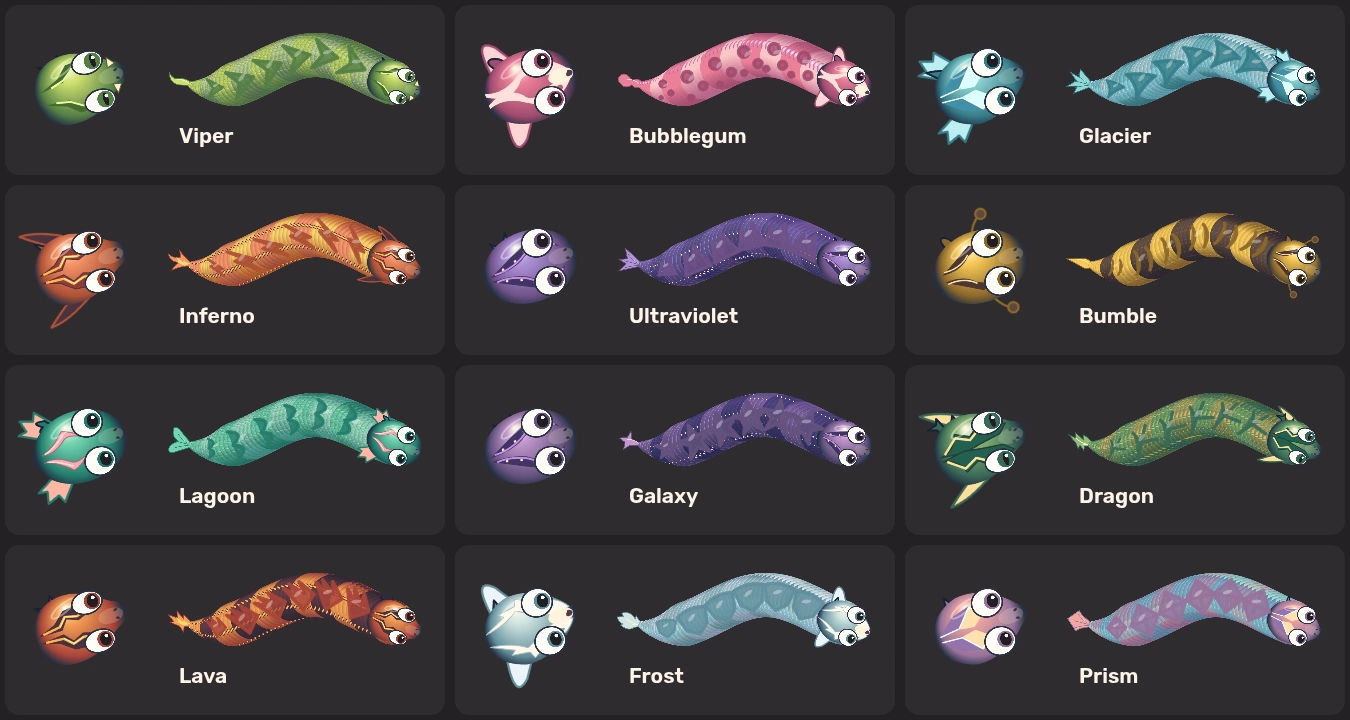
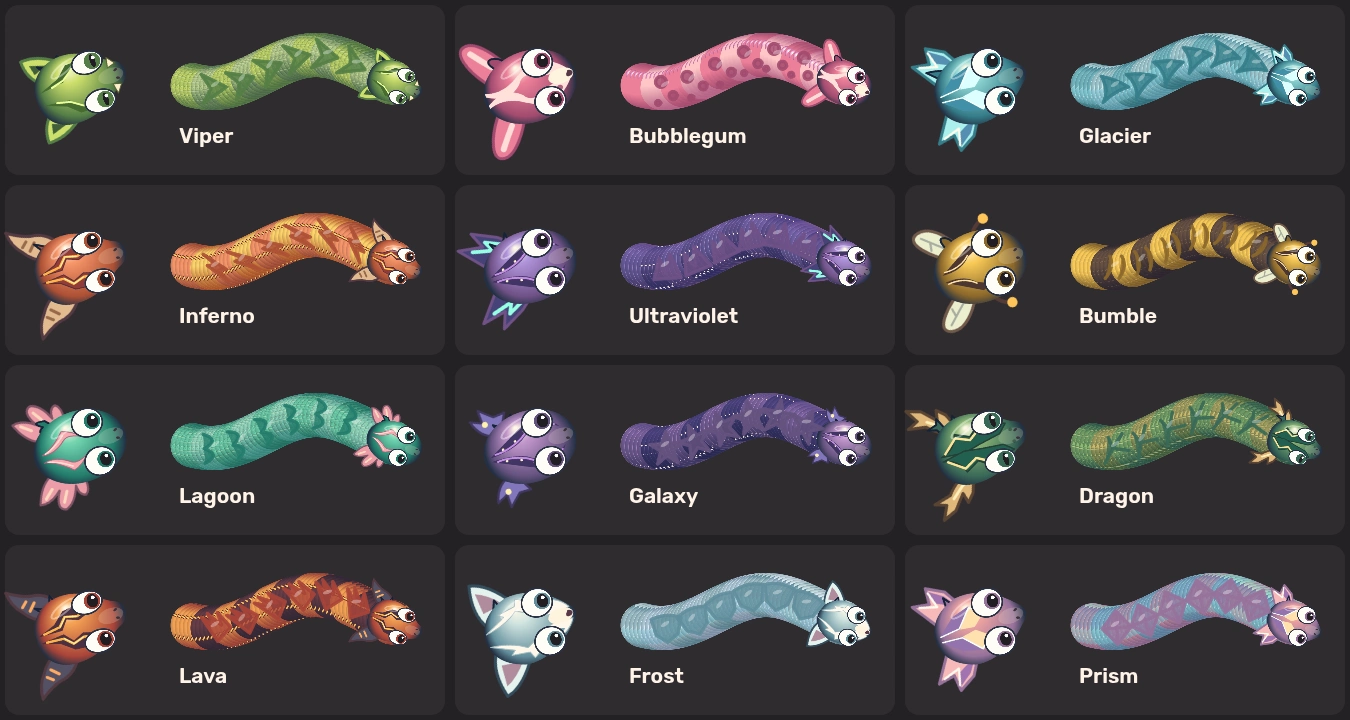
Give snakes rounded tails and distinct character silhouettes

diff --git a/src/render/skinArt.ts b/src/render/skinArt.ts
@@ -240,39 +240,135 @@ export function facePaint(c: Brush, id: string) {
   c.restore();
 }
 
-// Tail fins occupy the taper, behind the last segment. The point at (147,96)
-// joins the body; the rest of the silhouette points away from the head.
-export function tailPaint(c: Brush, id: string, light: string, dark: string) {
-  const silhouettes: Record<string, string> = {
-    fang: "M156 95 Q112 66 74 82 Q40 94 17 63 Q32 114 77 112 Q116 104 156 95Z",
-    bubble:
-      "M153 96 Q116 56 91 86 Q44 49 27 78 Q9 100 39 117 Q69 138 94 107 Q118 129 153 96Z",
-    fin: "M153 95 L66 34 72 75 24 62 62 95 25 133 74 119 66 158Z",
-    horn: "M159 96 Q98 107 54 145 Q60 113 81 98 Q36 111 16 73 Q52 90 78 72 L66 43 Q108 76 159 96Z",
-    crest: "M153 94 L41 36 65 84 27 98 65 110 39 153Z",
-    antenna: "M155 96 Q115 64 90 77 L15 98 92 116 Q123 130 155 96Z",
-    frill:
-      "M155 97 Q117 78 64 36 Q24 19 37 62 Q41 82 73 96 Q34 118 36 145 Q41 172 77 146Z",
-    star: "M151 96 L86 80 72 44 63 77 26 91 58 104 60 139 86 112Z",
-    antler:
-      "M155 96 Q119 63 87 58 L94 81 47 56 57 83 19 76 63 107 81 131 86 111 110 132 109 110Z",
-    spike:
-      "M157 96 L91 58 93 76 53 48 63 80 17 77 52 103 36 110 84 117 111 139 107 113Z",
-    mask: "M155 96 Q115 72 103 59 L102 75 Q68 41 31 65 L44 79 14 89 Q26 111 51 115 L40 123 Q86 145 109 116Z",
-    prism: "M156 96 L84 62 63 43 18 96 72 144 89 127Z",
-  };
-  shape(c, silhouettes[id], light, dark, 4);
-  if (id === "fin" || id === "frill" || id === "prism" || id === "crest") {
-    line(
-      c,
-      "M142 96 Q101 92 63 62 M143 97 Q100 97 50 98 M142 98 Q99 108 62 132",
-      dark,
-      3,
-    );
-    line(c, "M132 94 Q97 86 71 67", "#fff9ecb0", 2);
-  } else if (id === "spike" || id === "horn") {
-    shape(c, "M139 96 L96 85 98 94 57 77 75 98 59 99 105 108Z", "#ffd770");
-  } else if (id === "mask" || id === "antler") {
-    line(c, "M136 97 Q93 103 57 83 M117 99 L88 111", "#fff8d1", 4);
-  } else line(c, "M128 92 Q91 78 63 87", "#fff8dfb8", 4);
+// Side pieces share an anchor behind the cheeks. A dark rim keeps the outer
+// contour legible against both arena floors at the smallest playing size.
+export function headSilhouette(
+  c: Brush,
+  id: string,
+  light: string,
+  dark: string,
+) {
+  c.lineJoin = c.lineCap = "round";
+  for (const side of [-1, 1]) {
+    c.save();
+    c.translate(96, 96);
+    c.scale(1, side);
+    switch (id) {
+      case "mask": // Frost fox, with a folded ear and snow-white tips.
+        shape(
+          c,
+          "M-48 17 Q-64 40 -54 79 Q-29 74 -5 37Z",
+          "#e4f2ee",
+          "#344d5c",
+          4,
+        );
+        shape(c, "M-48 37 L-50 66 Q-33 59 -19 41Z", "#b08b9c");
+        break;
+      case "bubble": // Rounded rabbit ears with a dipped candy stripe.
+        shape(
+          c,
+          "M-49 24 C-68 49 -77 78 -60 80 C-43 83 -22 53 -13 33Z",
+          light,
+          dark,
+          4,
+        );
+        line(c, "M-56 68 Q-46 55 -35 42", "#ffddd8", 8);
+        break;
+      case "antler":
+        shape(
+          c,
+          "M-16 24 Q-42 34 -54 49 L-78 54 -63 60 -73 78 -54 71 -37 52 -34 66 -24 56 -18 41 0 32Z",
+          "#dfb77a",
+          "#594433",
+          4,
+        );
+        line(c, "M-51 55 L-34 42 -17 34", "#fff0bb", 4);
+        break;
+      case "antenna": // A forewing and a small amber feeler.
+        shape(
+          c,
+          "M-28 21 C-48 31 -83 63 -60 70 Q-37 76 -13 36Z",
+          "#ebeece",
+          "#71594a",
+          4,
+        );
+        line(c, "M-57 62 L-28 36 M-47 53 L-49 42", "#a6ada1", 3);
+        line(c, "M5 29 Q9 54 31 60", "#563b36", 5);
+        dot(c, 31, 60, 7, "#ffc558");
+        break;
+      case "frill":
+        shape(
+          c,
+          "M-46 25 Q-62 33 -71 57 Q-57 61 -40 47 Q-54 70 -40 74 Q-26 71 -17 48 Q-17 62 -8 64 Q2 58 -4 34Z",
+          "#ec9da7",
+          "#805466",
+          3,
+        );
+        line(c, "M-49 42 L-61 52 M-31 51 L-39 64", "#ffd8bf", 4);
+        break;
+      case "fin":
+      case "prism": {
+        const ice = id === "fin";
+        shape(
+          c,
+          "M-50 22 L-72 55 -49 51 -47 73 -24 60 -12 40 3 33Z",
+          ice ? "#abf0ed" : "#f7b9ba",
+          dark,
+          4,
+        );
+        shape(c, "M-47 69 L-40 49 -14 36 -27 55Z", ice ? "#558eb1" : "#a174b0");
+        line(c, "M-63 51 L-40 44 -46 66", "#fffaeb", 3);
+        break;
+      }
+      case "crest":
+      case "star":
+        if (id === "star") {
+          shape(
+            c,
+            "M-35 29 Q-54 35 -60 58 L-45 51 -45 69 -28 54 -12 55 -18 44 1 34Z",
+            "#8176bb",
+            "#413761",
+            3,
+          );
+          dot(c, -42, 48, 4, "#fff2ad");
+        } else {
+          shape(
+            c,
+            "M-52 20 L-79 52 -46 46 -55 68 -23 52 2 32Z",
+            "#454276",
+            dark,
+            4,
+          );
+          line(c, "M-61 44 L-34 37 -41 51 -16 39", "#95ffe5", 5);
+        }
+        break;
+      case "horn":
+      case "spike":
+        shape(
+          c,
+          "M-36 23 Q-52 29 -62 45 Q-73 57 -74 76 Q-52 61 -38 60 Q-20 56 -9 36Z",
+          id === "horn" ? "#e1ba8f" : "#545063",
+          "#533a42",
+          4,
+        );
+        line(
+          c,
+          "M-51 42 L-42 51 M-59 50 L-52 56",
+          id === "horn" ? "#986849" : "#ffab62",
+          4,
+        );
+        break;
+      case "fang":
+        shape(
+          c,
+          "M-41 20 Q-59 33 -59 58 Q-38 60 -16 45 L2 32Z",
+          light,
+          dark,
+          4,
+        );
+        shape(c, "M-47 35 L-50 49 -28 42Z", "#415e38");
+        break;
+    }
+    c.restore();
+  }
 }

diff --git a/src/render/spriteCache.ts b/src/render/spriteCache.ts
@@ -1,4 +1,4 @@
-import { material, facePaint, tailPaint } from "./skinArt";
+import { material, facePaint, headSilhouette } from "./skinArt";
 import { skins } from "../config";
 function sprite(n: number, paint: (c: CanvasRenderingContext2D) => void) {
   const canvas = document.createElement("canvas");
@@ -498,77 +498,9 @@ export const crown = sprite(128, (c) => {
 // Mirrored side details read as a silhouette even when the snake is small.
 const ornaments = skins.map((s) =>
   sprite(192, (c) => {
-    for (const side of [-1, 1]) {
-      c.save();
-      c.translate(96, 96);
-      c.scale(1, side);
-      c.lineJoin = "round";
-      c.lineWidth = 3;
-      c.strokeStyle = s[2];
-      c.fillStyle = s[1];
-      c.beginPath();
-      switch (s[3]) {
-        case "antler":
-        case "horn":
-          c.fillStyle = s[3] === "antler" ? "#ffdf9b" : "#4b3240";
-          c.moveTo(-8, 30);
-          c.quadraticCurveTo(-34, 45, -58, 65);
-          c.quadraticCurveTo(-33, 65, 6, 42);
-          break;
-        case "fin":
-        case "frill":
-          c.fillStyle = s[3] === "fin" ? "#bdeef1" : "#ffb6a4";
-          c.moveTo(-5, 26);
-          c.lineTo(-38, 64);
-          c.lineTo(-43, 53);
-          c.lineTo(-60, 59);
-          c.lineTo(-56, 43);
-          c.lineTo(-68, 41);
-          c.lineTo(-29, 20);
-          break;
-        case "antenna":
-          c.moveTo(3, 27);
-          c.quadraticCurveTo(12, 60, 30, 67);
-          c.stroke();
-          c.beginPath();
-          c.fillStyle = "#61483b";
-          c.arc(30, 67, 7, 0, 7);
-          break;
-        case "mask":
-        case "bubble":
-          c.fillStyle = s[3] === "mask" ? "#edf4fa" : "#ffd4d5";
-          c.moveTo(-37, 22);
-          c.quadraticCurveTo(-49, 92, -21, 65);
-          c.lineTo(0, 33);
-          break;
-        default:
-          c.restore();
-          continue;
-      }
-      c.closePath();
-      c.fill();
-      c.stroke();
-      c.restore();
-    }
+    headSilhouette(c, s[3], s[1], s[2]);
   }),
 );
-const tails = skins.map((s) =>
-  sprite(192, (c) => tailPaint(c, s[3], s[1], s[2])),
-);
-export function tail(
-  c: CanvasRenderingContext2D,
-  x: number,
-  y: number,
-  angle: number,
-  r: number,
-  skin: number,
-) {
-  c.save();
-  c.translate(x, y);
-  c.rotate(angle);
-  c.drawImage(tails[skin], -1.53 * r, -r, 2 * r, 2 * r);
-  c.restore();
-}
 const eyes = skins.map((s) =>
   sprite(128, (c) => {
     const angular = ["fang", "antler", "horn", "spike"].includes(s[3]);
@@ -644,6 +576,7 @@ export function preview(
     w = canvas.width,
     h = canvas.height;
   c.clearRect(0, 0, w, h);
+  const r = vertical ? w * 0.205 : h * 0.24;
   let lastX = 0,
     lastY = 0;
   for (let i = 0; i <= 50; i++) {
@@ -651,20 +584,6 @@ export function preview(
       v = Math.sin(u * 6 + time) * 0.17;
     const x = vertical ? w * (0.5 + v) : w * (0.11 + 0.76 * u),
       y = vertical ? h * (0.09 + 0.79 * u) : h * (0.5 + v);
-    const r = (vertical ? w * 0.205 : h * 0.24) * Math.min(1, 0.2 + u * 3.8);
-    if (i === 0) {
-      const tangent = 1.02 * Math.cos(time);
-      tail(
-        c,
-        x,
-        y,
-        vertical
-          ? Math.atan2(h * 0.79, w * tangent)
-          : Math.atan2(h * tangent, w * 0.76),
-        vertical ? w * 0.19 : h * 0.2,
-        skin,
-      );
-    }
     c.drawImage(beads[skin][Math.floor(i / 5) % 2], x - r, y - r, 2 * r, 2 * r);
     if (i === 50) face(c, x, y, Math.atan2(y - lastY, x - lastX), r, skin);
     lastX = x;
@@ -685,7 +604,7 @@ export function preview(
       x,
       y,
       angle,
-      (vertical ? w * 0.205 : h * 0.24) * Math.min(1, 0.2 + u * 3.8),
+      r,
     );
   }
 }

diff --git a/src/render/renderer.ts b/src/render/renderer.ts
@@ -11,7 +11,6 @@ import {
   shadow,
   marking,
   boostWake,
-  tail,
 } from "./spriteCache";
 import { lobby } from "./lobby";
 const canvas = document.querySelector<HTMLCanvasElement>("#arena")!,
@@ -117,8 +116,6 @@ function snake(s: Snake, f: number, leader = false, demo = false) {
         o = s.old[i],
         x = o.x + (p.x - o.x) * f,
         y = o.y + (p.y - o.y) * f;
-      const rr =
-        r * (0.16 + 0.84 * Math.sin((Math.min(1, (n - i) / 10) * Math.PI) / 2));
       if (demo || visible(x, y)) {
         if (pass === 0) {
           if (s.boost && i === 0) {
@@ -137,29 +134,14 @@ function snake(s: Snake, f: number, leader = false, demo = false) {
           if (i % 2 === 0)
             c.drawImage(
               shadow,
-              x - rr * 1.4,
-              y - rr * 0.96,
-              rr * 2.8,
-              rr * 2.8,
+              x - r * 1.4,
+              y - r * 0.96,
+              r * 2.8,
+              r * 2.8,
             );
         } else {
-          if (i === n - 1 && i > 0) {
-            const front = s.body[i - 1],
-              prior = s.old[i - 1];
-            tail(
-              c,
-              x,
-              y,
-              Math.atan2(
-                prior.y + (front.y - prior.y) * f - y,
-                prior.x + (front.x - prior.x) * f - x,
-              ),
-              r * 0.75,
-              s.skin,
-            );
-          }
           const img = beads[s.skin][Math.floor(i / 4) % 2];
-          c.drawImage(img, x - rr, y - rr, 2 * rr, 2 * rr);
+          c.drawImage(img, x - r, y - r, 2 * r, 2 * r);
           if (!i) {
             face(
               c,

diff --git a/docs/snake-io-comparison.md b/docs/snake-io-comparison.md
@@ -45,4 +45,4 @@ The old renderer resampled the full-screen hex floor every frame and drew the ar
 
 In two before-and-after runs at 1920 × 1080 in headless Chromium, the slowest 5% of animation callbacks started at intervals of 50–67 ms or longer before the change. The 95th percentile fell to 16.7 ms in both updated runs. Of 675 intervals in the updated runs, one exceeded 25 ms. This measures browser callbacks during play. Physical display timing and Kooapps’ frame rate were not measured.
 
-All twelve skins now have original face paint, textured bodies and shaped tails. The shop portrait enlarges the same face you see in the arena.
+All twelve skins now have original face paint, distinct head silhouettes and textured bodies with full-width, rounded ends. The shop portrait enlarges the same face you see in the arena.
